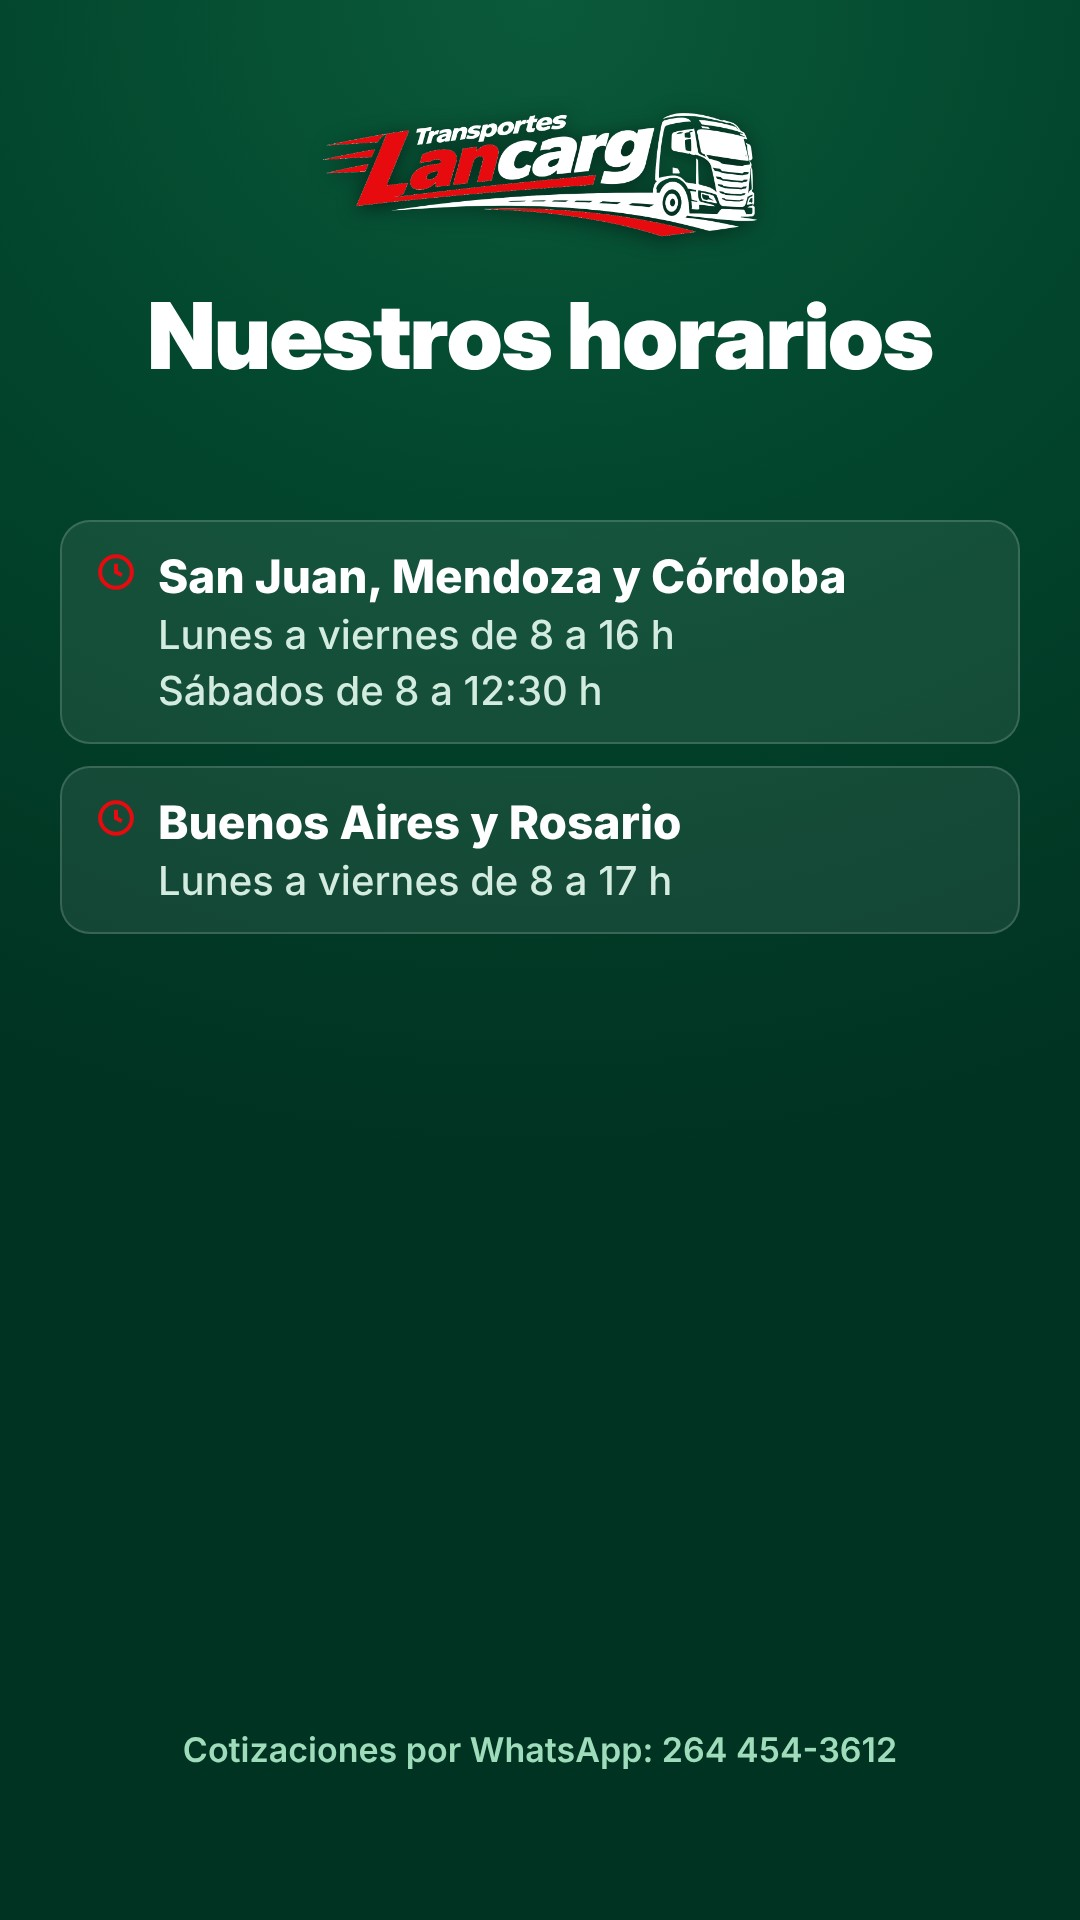
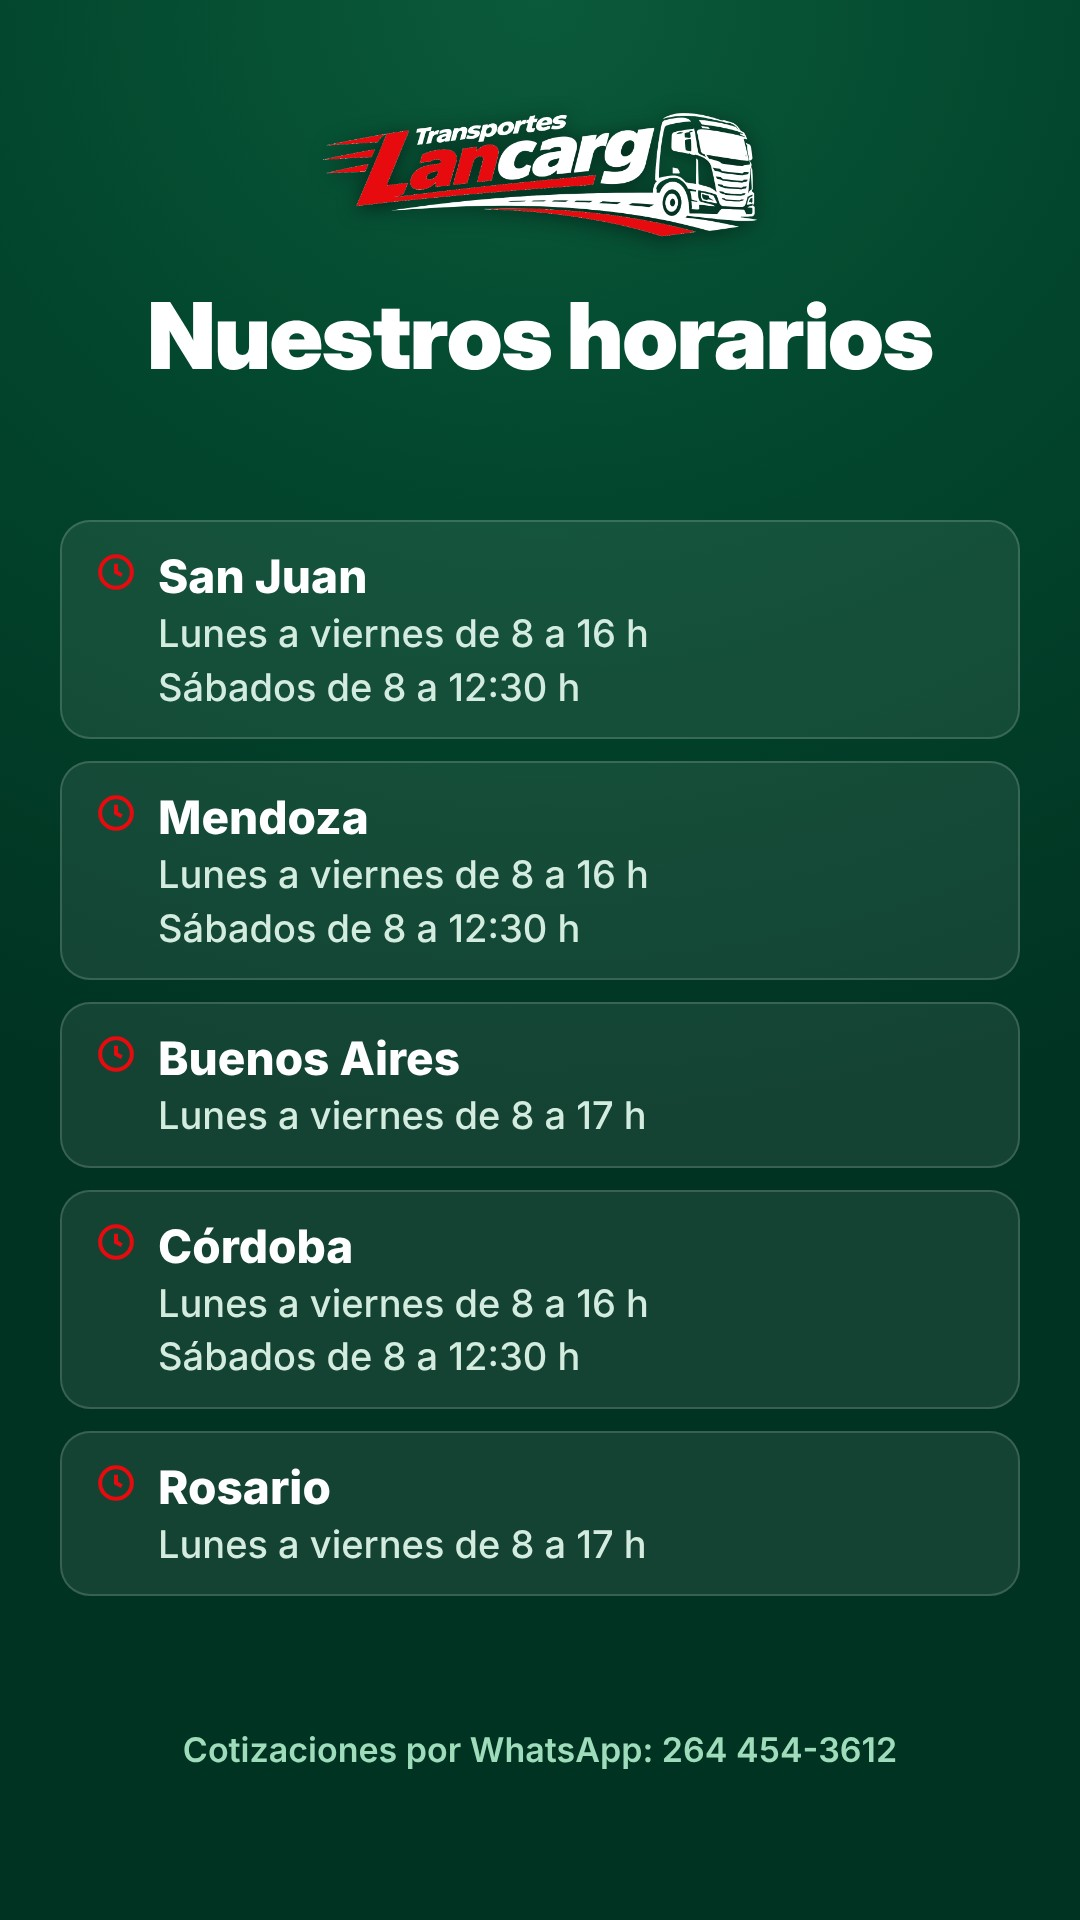
Horarios por sucursal en el orden de las direcciones
Claude-Session: https://claude.ai/code/session_01VCQyoaPqoNphJ14syEH6Au

diff --git a/publicaciones/2026-10-20-destacadas/diseno.html b/publicaciones/2026-10-20-destacadas/diseno.html
@@ -47,4 +47,4 @@ h2{font-family:"Inter Display",Inter;font-weight:900;font-size:76px;line-height:
 .c .d{font-size:34px;font-weight:500;color:#d4ecdf;margin-top:6px;line-height:1.25}
 .c .p{display:flex;align-items:center;gap:12px;font-size:38px;font-weight:700;margin-top:10px}
 .foot2{position:absolute;left:70px;right:70px;bottom:150px;text-align:center;font-size:34px;font-weight:600;color:#9fdcbb}
-</style></head><body><div class="slide story dest"><img class="logo" src="../../marca/logo-lancarg-sobre-verde.png"><div class="head"><h2>Nuestras sucursales</h2></div><div class="cards"><div class="c"><div class="ic"><svg width="40" height="40" viewBox="0 0 24 24" fill="#E70A0F"><path d="M12 2a7 7 0 0 0-7 7c0 5.2 7 13 7 13s7-7.8 7-13a7 7 0 0 0-7-7zm0 9.5A2.5 2.5 0 1 1 12 6.5a2.5 2.5 0 0 1 0 5z"/></svg></div><div><div class="t">San Juan</div><div class="d">Ruta 40 545 Norte, Chimbas</div><div class="p"><svg width="44" height="44" viewBox="0 0 24 24" fill="#25D366"><path d="M12 2a10 10 0 0 0-8.6 15.1L2 22l5-1.3A10 10 0 1 0 12 2zm5.3 14.1c-.2.6-1.3 1.2-1.8 1.2-.5.1-1 .2-3.3-.7-2.8-1.1-4.5-4-4.7-4.2-.1-.2-1.1-1.5-1.1-2.9s.7-2 1-2.3c.2-.3.5-.3.7-.3h.5c.2 0 .4 0 .6.5l.8 2c.1.2.1.4 0 .5l-.3.5-.4.4c-.1.1-.3.3-.1.6.2.3.8 1.3 1.7 2.1 1.2 1 2.1 1.4 2.4 1.5.3.1.5.1.6-.1l.9-1c.2-.3.4-.2.6-.1l1.9.9c.3.1.5.2.5.3.1.2.1.7-.1 1.4z"/></svg>264 454-3612</div></div></div><div class="c"><div class="ic"><svg width="40" height="40" viewBox="0 0 24 24" fill="#E70A0F"><path d="M12 2a7 7 0 0 0-7 7c0 5.2 7 13 7 13s7-7.8 7-13a7 7 0 0 0-7-7zm0 9.5A2.5 2.5 0 1 1 12 6.5a2.5 2.5 0 0 1 0 5z"/></svg></div><div><div class="t">Mendoza</div><div class="d">Mitre 2671, Guaymallén</div><div class="p"><svg width="44" height="44" viewBox="0 0 24 24" fill="#25D366"><path d="M12 2a10 10 0 0 0-8.6 15.1L2 22l5-1.3A10 10 0 1 0 12 2zm5.3 14.1c-.2.6-1.3 1.2-1.8 1.2-.5.1-1 .2-3.3-.7-2.8-1.1-4.5-4-4.7-4.2-.1-.2-1.1-1.5-1.1-2.9s.7-2 1-2.3c.2-.3.5-.3.7-.3h.5c.2 0 .4 0 .6.5l.8 2c.1.2.1.4 0 .5l-.3.5-.4.4c-.1.1-.3.3-.1.6.2.3.8 1.3 1.7 2.1 1.2 1 2.1 1.4 2.4 1.5.3.1.5.1.6-.1l.9-1c.2-.3.4-.2.6-.1l1.9.9c.3.1.5.2.5.3.1.2.1.7-.1 1.4z"/></svg>261 240-6204</div></div></div><div class="c"><div class="ic"><svg width="40" height="40" viewBox="0 0 24 24" fill="#E70A0F"><path d="M12 2a7 7 0 0 0-7 7c0 5.2 7 13 7 13s7-7.8 7-13a7 7 0 0 0-7-7zm0 9.5A2.5 2.5 0 1 1 12 6.5a2.5 2.5 0 0 1 0 5z"/></svg></div><div><div class="t">Buenos Aires</div><div class="d">Pergamino 3751, C.T.C. Villa Soldati, Nave C, Módulo 75</div><div class="p"><svg width="44" height="44" viewBox="0 0 24 24" fill="#25D366"><path d="M12 2a10 10 0 0 0-8.6 15.1L2 22l5-1.3A10 10 0 1 0 12 2zm5.3 14.1c-.2.6-1.3 1.2-1.8 1.2-.5.1-1 .2-3.3-.7-2.8-1.1-4.5-4-4.7-4.2-.1-.2-1.1-1.5-1.1-2.9s.7-2 1-2.3c.2-.3.5-.3.7-.3h.5c.2 0 .4 0 .6.5l.8 2c.1.2.1.4 0 .5l-.3.5-.4.4c-.1.1-.3.3-.1.6.2.3.8 1.3 1.7 2.1 1.2 1 2.1 1.4 2.4 1.5.3.1.5.1.6-.1l.9-1c.2-.3.4-.2.6-.1l1.9.9c.3.1.5.2.5.3.1.2.1.7-.1 1.4z"/></svg>11 3779-5919</div></div></div><div class="c"><div class="ic"><svg width="40" height="40" viewBox="0 0 24 24" fill="#E70A0F"><path d="M12 2a7 7 0 0 0-7 7c0 5.2 7 13 7 13s7-7.8 7-13a7 7 0 0 0-7-7zm0 9.5A2.5 2.5 0 1 1 12 6.5a2.5 2.5 0 0 1 0 5z"/></svg></div><div><div class="t">Córdoba</div><div class="d">La Cordillera 3774</div><div class="p"><svg width="44" height="44" viewBox="0 0 24 24" fill="#25D366"><path d="M12 2a10 10 0 0 0-8.6 15.1L2 22l5-1.3A10 10 0 1 0 12 2zm5.3 14.1c-.2.6-1.3 1.2-1.8 1.2-.5.1-1 .2-3.3-.7-2.8-1.1-4.5-4-4.7-4.2-.1-.2-1.1-1.5-1.1-2.9s.7-2 1-2.3c.2-.3.5-.3.7-.3h.5c.2 0 .4 0 .6.5l.8 2c.1.2.1.4 0 .5l-.3.5-.4.4c-.1.1-.3.3-.1.6.2.3.8 1.3 1.7 2.1 1.2 1 2.1 1.4 2.4 1.5.3.1.5.1.6-.1l.9-1c.2-.3.4-.2.6-.1l1.9.9c.3.1.5.2.5.3.1.2.1.7-.1 1.4z"/></svg>351 311-2698</div></div></div><div class="c"><div class="ic"><svg width="40" height="40" viewBox="0 0 24 24" fill="#E70A0F"><path d="M12 2a7 7 0 0 0-7 7c0 5.2 7 13 7 13s7-7.8 7-13a7 7 0 0 0-7-7zm0 9.5A2.5 2.5 0 1 1 12 6.5a2.5 2.5 0 0 1 0 5z"/></svg></div><div><div class="t">Rosario</div><div class="d">Río de Janeiro 2510</div><div class="p"><svg width="44" height="44" viewBox="0 0 24 24" fill="#25D366"><path d="M12 2a10 10 0 0 0-8.6 15.1L2 22l5-1.3A10 10 0 1 0 12 2zm5.3 14.1c-.2.6-1.3 1.2-1.8 1.2-.5.1-1 .2-3.3-.7-2.8-1.1-4.5-4-4.7-4.2-.1-.2-1.1-1.5-1.1-2.9s.7-2 1-2.3c.2-.3.5-.3.7-.3h.5c.2 0 .4 0 .6.5l.8 2c.1.2.1.4 0 .5l-.3.5-.4.4c-.1.1-.3.3-.1.6.2.3.8 1.3 1.7 2.1 1.2 1 2.1 1.4 2.4 1.5.3.1.5.1.6-.1l.9-1c.2-.3.4-.2.6-.1l1.9.9c.3.1.5.2.5.3.1.2.1.7-.1 1.4z"/></svg>341 364-0498</div></div></div></div></div><div class="slide story dest"><img class="logo" src="../../marca/logo-lancarg-sobre-verde.png"><div class="head"><h2>Nuestros horarios</h2></div><div class="cards" style="top:520px"><div class="c"><div class="ic"><svg width="40" height="40" viewBox="0 0 24 24" fill="none" stroke="#E70A0F" stroke-width="2.4"><circle cx="12" cy="12" r="9.5"/><path d="M12 7v5l3.5 2"/></svg></div><div><div class="t">San Juan, Mendoza y Córdoba</div><div class="d" style="font-size:40px">Lunes a viernes de 8 a 16 h</div><div class="d" style="font-size:40px">Sábados de 8 a 12:30 h</div></div></div><div class="c"><div class="ic"><svg width="40" height="40" viewBox="0 0 24 24" fill="none" stroke="#E70A0F" stroke-width="2.4"><circle cx="12" cy="12" r="9.5"/><path d="M12 7v5l3.5 2"/></svg></div><div><div class="t">Buenos Aires y Rosario</div><div class="d" style="font-size:40px">Lunes a viernes de 8 a 17 h</div></div></div></div><div class="foot2">Cotizaciones por WhatsApp: 264 454-3612</div></div></body></html>
+</style></head><body><div class="slide story dest"><img class="logo" src="../../marca/logo-lancarg-sobre-verde.png"><div class="head"><h2>Nuestras sucursales</h2></div><div class="cards"><div class="c"><div class="ic"><svg width="40" height="40" viewBox="0 0 24 24" fill="#E70A0F"><path d="M12 2a7 7 0 0 0-7 7c0 5.2 7 13 7 13s7-7.8 7-13a7 7 0 0 0-7-7zm0 9.5A2.5 2.5 0 1 1 12 6.5a2.5 2.5 0 0 1 0 5z"/></svg></div><div><div class="t">San Juan</div><div class="d">Ruta 40 545 Norte, Chimbas</div><div class="p"><svg width="44" height="44" viewBox="0 0 24 24" fill="#25D366"><path d="M12 2a10 10 0 0 0-8.6 15.1L2 22l5-1.3A10 10 0 1 0 12 2zm5.3 14.1c-.2.6-1.3 1.2-1.8 1.2-.5.1-1 .2-3.3-.7-2.8-1.1-4.5-4-4.7-4.2-.1-.2-1.1-1.5-1.1-2.9s.7-2 1-2.3c.2-.3.5-.3.7-.3h.5c.2 0 .4 0 .6.5l.8 2c.1.2.1.4 0 .5l-.3.5-.4.4c-.1.1-.3.3-.1.6.2.3.8 1.3 1.7 2.1 1.2 1 2.1 1.4 2.4 1.5.3.1.5.1.6-.1l.9-1c.2-.3.4-.2.6-.1l1.9.9c.3.1.5.2.5.3.1.2.1.7-.1 1.4z"/></svg>264 454-3612</div></div></div><div class="c"><div class="ic"><svg width="40" height="40" viewBox="0 0 24 24" fill="#E70A0F"><path d="M12 2a7 7 0 0 0-7 7c0 5.2 7 13 7 13s7-7.8 7-13a7 7 0 0 0-7-7zm0 9.5A2.5 2.5 0 1 1 12 6.5a2.5 2.5 0 0 1 0 5z"/></svg></div><div><div class="t">Mendoza</div><div class="d">Mitre 2671, Guaymallén</div><div class="p"><svg width="44" height="44" viewBox="0 0 24 24" fill="#25D366"><path d="M12 2a10 10 0 0 0-8.6 15.1L2 22l5-1.3A10 10 0 1 0 12 2zm5.3 14.1c-.2.6-1.3 1.2-1.8 1.2-.5.1-1 .2-3.3-.7-2.8-1.1-4.5-4-4.7-4.2-.1-.2-1.1-1.5-1.1-2.9s.7-2 1-2.3c.2-.3.5-.3.7-.3h.5c.2 0 .4 0 .6.5l.8 2c.1.2.1.4 0 .5l-.3.5-.4.4c-.1.1-.3.3-.1.6.2.3.8 1.3 1.7 2.1 1.2 1 2.1 1.4 2.4 1.5.3.1.5.1.6-.1l.9-1c.2-.3.4-.2.6-.1l1.9.9c.3.1.5.2.5.3.1.2.1.7-.1 1.4z"/></svg>261 240-6204</div></div></div><div class="c"><div class="ic"><svg width="40" height="40" viewBox="0 0 24 24" fill="#E70A0F"><path d="M12 2a7 7 0 0 0-7 7c0 5.2 7 13 7 13s7-7.8 7-13a7 7 0 0 0-7-7zm0 9.5A2.5 2.5 0 1 1 12 6.5a2.5 2.5 0 0 1 0 5z"/></svg></div><div><div class="t">Buenos Aires</div><div class="d">Pergamino 3751, C.T.C. Villa Soldati, Nave C, Módulo 75</div><div class="p"><svg width="44" height="44" viewBox="0 0 24 24" fill="#25D366"><path d="M12 2a10 10 0 0 0-8.6 15.1L2 22l5-1.3A10 10 0 1 0 12 2zm5.3 14.1c-.2.6-1.3 1.2-1.8 1.2-.5.1-1 .2-3.3-.7-2.8-1.1-4.5-4-4.7-4.2-.1-.2-1.1-1.5-1.1-2.9s.7-2 1-2.3c.2-.3.5-.3.7-.3h.5c.2 0 .4 0 .6.5l.8 2c.1.2.1.4 0 .5l-.3.5-.4.4c-.1.1-.3.3-.1.6.2.3.8 1.3 1.7 2.1 1.2 1 2.1 1.4 2.4 1.5.3.1.5.1.6-.1l.9-1c.2-.3.4-.2.6-.1l1.9.9c.3.1.5.2.5.3.1.2.1.7-.1 1.4z"/></svg>11 3779-5919</div></div></div><div class="c"><div class="ic"><svg width="40" height="40" viewBox="0 0 24 24" fill="#E70A0F"><path d="M12 2a7 7 0 0 0-7 7c0 5.2 7 13 7 13s7-7.8 7-13a7 7 0 0 0-7-7zm0 9.5A2.5 2.5 0 1 1 12 6.5a2.5 2.5 0 0 1 0 5z"/></svg></div><div><div class="t">Córdoba</div><div class="d">La Cordillera 3774</div><div class="p"><svg width="44" height="44" viewBox="0 0 24 24" fill="#25D366"><path d="M12 2a10 10 0 0 0-8.6 15.1L2 22l5-1.3A10 10 0 1 0 12 2zm5.3 14.1c-.2.6-1.3 1.2-1.8 1.2-.5.1-1 .2-3.3-.7-2.8-1.1-4.5-4-4.7-4.2-.1-.2-1.1-1.5-1.1-2.9s.7-2 1-2.3c.2-.3.5-.3.7-.3h.5c.2 0 .4 0 .6.5l.8 2c.1.2.1.4 0 .5l-.3.5-.4.4c-.1.1-.3.3-.1.6.2.3.8 1.3 1.7 2.1 1.2 1 2.1 1.4 2.4 1.5.3.1.5.1.6-.1l.9-1c.2-.3.4-.2.6-.1l1.9.9c.3.1.5.2.5.3.1.2.1.7-.1 1.4z"/></svg>351 311-2698</div></div></div><div class="c"><div class="ic"><svg width="40" height="40" viewBox="0 0 24 24" fill="#E70A0F"><path d="M12 2a7 7 0 0 0-7 7c0 5.2 7 13 7 13s7-7.8 7-13a7 7 0 0 0-7-7zm0 9.5A2.5 2.5 0 1 1 12 6.5a2.5 2.5 0 0 1 0 5z"/></svg></div><div><div class="t">Rosario</div><div class="d">Río de Janeiro 2510</div><div class="p"><svg width="44" height="44" viewBox="0 0 24 24" fill="#25D366"><path d="M12 2a10 10 0 0 0-8.6 15.1L2 22l5-1.3A10 10 0 1 0 12 2zm5.3 14.1c-.2.6-1.3 1.2-1.8 1.2-.5.1-1 .2-3.3-.7-2.8-1.1-4.5-4-4.7-4.2-.1-.2-1.1-1.5-1.1-2.9s.7-2 1-2.3c.2-.3.5-.3.7-.3h.5c.2 0 .4 0 .6.5l.8 2c.1.2.1.4 0 .5l-.3.5-.4.4c-.1.1-.3.3-.1.6.2.3.8 1.3 1.7 2.1 1.2 1 2.1 1.4 2.4 1.5.3.1.5.1.6-.1l.9-1c.2-.3.4-.2.6-.1l1.9.9c.3.1.5.2.5.3.1.2.1.7-.1 1.4z"/></svg>341 364-0498</div></div></div></div></div><div class="slide story dest"><img class="logo" src="../../marca/logo-lancarg-sobre-verde.png"><div class="head"><h2>Nuestros horarios</h2></div><div class="cards" style="top:520px"><div class="c"><div class="ic"><svg width="40" height="40" viewBox="0 0 24 24" fill="none" stroke="#E70A0F" stroke-width="2.4"><circle cx="12" cy="12" r="9.5"/><path d="M12 7v5l3.5 2"/></svg></div><div><div class="t">San Juan</div><div class="d" style="font-size:38px">Lunes a viernes de 8 a 16 h</div><div class="d" style="font-size:38px">Sábados de 8 a 12:30 h</div></div></div><div class="c"><div class="ic"><svg width="40" height="40" viewBox="0 0 24 24" fill="none" stroke="#E70A0F" stroke-width="2.4"><circle cx="12" cy="12" r="9.5"/><path d="M12 7v5l3.5 2"/></svg></div><div><div class="t">Mendoza</div><div class="d" style="font-size:38px">Lunes a viernes de 8 a 16 h</div><div class="d" style="font-size:38px">Sábados de 8 a 12:30 h</div></div></div><div class="c"><div class="ic"><svg width="40" height="40" viewBox="0 0 24 24" fill="none" stroke="#E70A0F" stroke-width="2.4"><circle cx="12" cy="12" r="9.5"/><path d="M12 7v5l3.5 2"/></svg></div><div><div class="t">Buenos Aires</div><div class="d" style="font-size:38px">Lunes a viernes de 8 a 17 h</div></div></div><div class="c"><div class="ic"><svg width="40" height="40" viewBox="0 0 24 24" fill="none" stroke="#E70A0F" stroke-width="2.4"><circle cx="12" cy="12" r="9.5"/><path d="M12 7v5l3.5 2"/></svg></div><div><div class="t">Córdoba</div><div class="d" style="font-size:38px">Lunes a viernes de 8 a 16 h</div><div class="d" style="font-size:38px">Sábados de 8 a 12:30 h</div></div></div><div class="c"><div class="ic"><svg width="40" height="40" viewBox="0 0 24 24" fill="none" stroke="#E70A0F" stroke-width="2.4"><circle cx="12" cy="12" r="9.5"/><path d="M12 7v5l3.5 2"/></svg></div><div><div class="t">Rosario</div><div class="d" style="font-size:38px">Lunes a viernes de 8 a 17 h</div></div></div></div><div class="foot2">Cotizaciones por WhatsApp: 264 454-3612</div></div></body></html>
